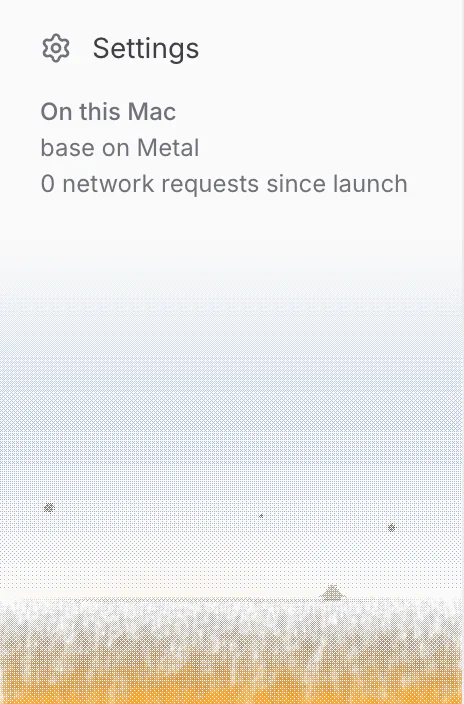
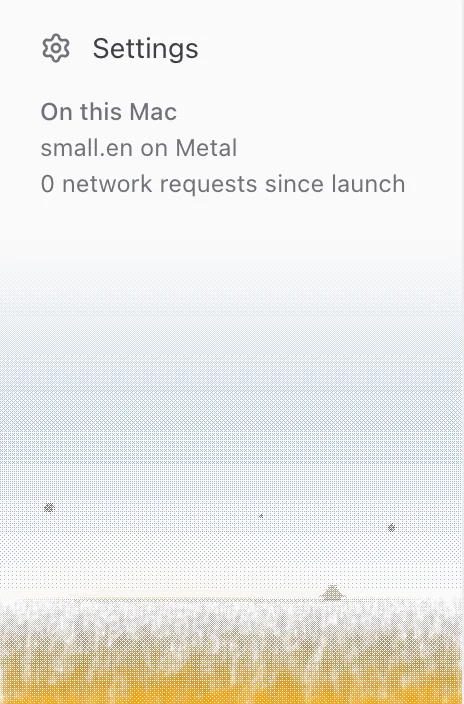
Release 0.2.0: version, release notes, and the site copy (#153)
* Site: each Mac's download size, and small.en's speed

For the release that ships small.en (#131), not before: the site serves the
latest release and deploys from main.

The Apple Silicon DMG grows to about 910 MB with small.en (954,969,563 bytes
in CI) and the Intel one stays about 610 MB, so the size follows the detected
arch like the label does. The measured-speed tile names the model Apple
Silicon uses for English: 147 ms for 5 s of audio (two runs of 15, median,
VAD on, M5 Pro).

* Version 0.2.0, and its release notes

* Site and README: version 0.2.0

* Release job: rebuild an unpublished draft in place

`gh release create` fails when a draft of the tag already exists, so 0.2.0
could not be rebuilt after Alex's review. A draft is now updated: target,
notes and files. A published release is never changed.

* Release 0.2.0 notes: setup, the tour, one model choice, automatic summaries, the field

The notes now cover Alex's 0.2 review: setup's "Where Oats thinks" step and
its downloads, the tour, Settings' single processing choice, summaries that
start by themselves, and the field drawn for each screen. A Known limits
line says that the model on this Mac summarizes up to about an hour. The
privacy section and the site and README copy now say what goes to a
provider with an API key (transcripts, and audio with an OpenAI key).

* Site: the sidebar foot as 0.2.0 shows it, and the notes for #156

The site's sidebar image said "base on Metal", 0.1.0's speech model. It is
[…]

diff --git a/site/index.html b/site/index.html
@@ -74,7 +74,7 @@
             </a>
           </div>
           <ul class="facts" aria-label="About this download">
-            <li>Version 0.1.0 for <span data-arch-label>Apple Silicon</span></li>
+            <li>Version 0.2.0 for <span data-arch-label>Apple Silicon</span></li>
             <li>macOS 12 or later</li>
             <li>Free and open source</li>
           </ul>
@@ -171,7 +171,7 @@
               A title, a summary and the threads the conversation followed. Talk time for each person, how each
               question ended, and the transcript with the speakers told apart.
             </p>
-            <p class="aside">Titles and summaries come from a writing model you choose: a local one, or your own API key.</p>
+            <p class="aside">Titles and summaries come from a writing model on your Mac, which Oats downloads at setup, or from your own API key.</p>
           </div>
           <figure class="window feature-visual">
             <img src="media/outcomes.webp" width="1504" height="1662" loading="lazy" decoding="async" alt="The list What this left open, 15 asked and 9 answered: questions marked Unknown, Unanswered, Open and Answered, with the answer under each answered one." />
@@ -227,8 +227,9 @@
           </div>
           <div class="privacy-copy">
             <p>
-              Audio and transcripts stay on your Mac. There is no Oats account and no Oats server. Summaries run on a
-              local model, or on your own API key if you add one.
+              There is no Oats account and no Oats server. On this Mac, audio and transcripts never leave it. With your
+              own API key, transcripts go to your provider for summaries, and with an OpenAI key the audio goes to
+              OpenAI for transcription.
             </p>
             <p>
               When a question meets a clear <q>I don't know</q>, Oats opens a web search for the question text in your
@@ -241,14 +242,14 @@
             </p>
           </div>
           <figure class="counter">
-            <img src="media/sidebar-foot.webp" width="464" height="704" loading="lazy" decoding="async" alt="The bottom of the Oats sidebar: Settings, then On this Mac, base on Metal and 0 network requests since launch, above a dithered sky and wheat field." />
+            <img src="media/sidebar-foot.webp" width="464" height="704" loading="lazy" decoding="async" alt="The bottom of the Oats sidebar: Settings, then On this Mac, small.en on Metal and 0 network requests since launch, above a dithered sky and wheat field." />
           </figure>
         </div>
       </section>
 
       <section class="numbers" aria-label="Measured">
         <div class="wrap numbers-grid">
-          <div><p class="number">89<span> ms</span></p><p>to transcribe 5 seconds of audio, with whisper base on an M5 Pro</p></div>
+          <div><p class="number">147<span> ms</span></p><p>to transcribe 5 seconds of audio, with whisper small.en on an M5 Pro</p></div>
           <div><p class="number">1.3<span> s</span></p><p>until the first words show in a live room, median, in a replay at real speed</p></div>
           <div><p class="number">10</p><p>languages in the interface</p></div>
           <div><p class="number">MIT</p><p>licence. The whole app is <a href="https://github.com/alexgaoth/oats">on GitHub</a></p></div>
@@ -283,8 +284,8 @@
             </a>
           </div>
           <ul class="facts" aria-label="About this download">
-            <li>Version 0.1.0 for <span data-arch-label>Apple Silicon</span></li>
-            <li>About 610 MB, models included</li>
+            <li>Version 0.2.0 for <span data-arch-label>Apple Silicon</span></li>
+            <li><span data-arch-size data-arm64="About 910 MB" data-x64="About 610 MB">About 910 MB</span>, models included</li>
             <li>macOS 12 or later</li>
           </ul>
           <p class="other-arch">

diff --git a/site/src/download.js b/site/src/download.js
@@ -57,6 +57,11 @@ export async function wireDownloads() {
   for (const label of document.querySelectorAll("[data-arch-label]")) {
     label.textContent = primary === "x64" ? "Intel" : "Apple Silicon";
   }
+  // The two builds bundle different speech models, so they differ in size:
+  // each element names both sizes and shows the one this button serves.
+  for (const size of document.querySelectorAll("[data-arch-size]")) {
+    size.textContent = primary === "x64" ? size.dataset.x64 : size.dataset.arm64;
+  }
   for (const other of document.querySelectorAll("[data-other-arch]")) {
     const which = primary === "x64" ? "arm64" : "x64";
     other.href = DMG[which];

diff --git a/site/assets/site.js b/site/assets/site.js
@@ -323,6 +323,7 @@ async function Y() {
 		e.href = K[n], e.dataset.download === "primary" && (e.dataset.arch = n);
 	}
 	for (let e of document.querySelectorAll("[data-arch-label]")) e.textContent = t === "x64" ? "Intel" : "Apple Silicon";
+	for (let e of document.querySelectorAll("[data-arch-size]")) e.textContent = t === "x64" ? e.dataset.x64 : e.dataset.arm64;
 	for (let e of document.querySelectorAll("[data-other-arch]")) {
 		let n = t === "x64" ? "arm64" : "x64";
 		e.href = K[n], e.textContent = n === "x64" ? "Intel Mac? Get the Intel build" : "On Apple Silicon? Get that build";

diff --git a/.github/release-notes/v0.2.0.md b/.github/release-notes/v0.2.0.md
@@ -1,0 +1,94 @@
+Oats hears the whole room now, names what the conversation was about, and links the conversations that come back to the same subject. Setup sets up the models for you, and summaries start by themselves.
+
+## Download
+
+- **Apple Silicon** (M1 and later): `Oats-arm64.dmg`, about 910 MB.
+- **Intel**: `Oats-x64.dmg`, about 610 MB. It is built for Intel, but nobody has tested it on an Intel Mac yet.
+
+Oats needs macOS 12 Monterey or later.
+
+## The first time you open it
+
+This version is not notarized by Apple yet, so macOS stops it once.
+
+1. Open the DMG and drag Oats to Applications.
+2. Open Oats. macOS says that it cannot verify the app. Click Done.
+3. Open System Settings, then Privacy & Security. Scroll down and click Open Anyway next to "Oats was blocked".
+4. Confirm with your password or Touch ID. macOS asks only once.
+
+## What is new
+
+**Setup asks where Oats thinks.** A new step offers two choices:
+
+- **On this Mac:** private and free. When you continue, Oats downloads the models that suit your Mac: Whisper Turbo (574 MB) for speech on a Mac that is fast enough, and a writing model for titles and summaries. The writing model is Gemma 4 E4B (5.4 GB) on a Mac with 16 GB of memory or more, and Qwen3.5 4B (2.7 GB) on a Mac with less. Gemma 4 E4B made up the fewest facts in our summary tests. Each download shows its progress, with Cancel.
+- **With an API key:** paste an OpenAI or Anthropic key. Oats asks the provider whether the key works before it saves it.
+
+**A short tour.** After setup, five slides show what Oats does with a conversation. Each slide is a part of the app itself, shown with the example conversation. Skip it, or go through it with Next or the arrow keys.
+
+**One way to choose models.** Settings › AI models has one choice: On this Mac, or With an API key. Under it, one row for speech and one for writing say which model Oats uses, why, and whether it is ready. To choose models yourself, open Advanced: speech and writing use the same list there.
+
+**Upgrading.** On this Mac with no writing model yet, the first launch of 0.2.0 starts its download, with a notice and Cancel. A model you chose yourself is kept.
+
+**Summaries start by themselves.**
+
+- **After a download:** a conversation that finished while the writing model was still downloading is summarized when the model is ready.
+- **After a key:** with an API key chosen but none saved yet, conversations wait, and they are summarized when you add one.
+- **When you open one:** a conversation that has no summary starts one when you open it. There is no Summarize button.
+- **After a failure:** a summary that fails quickly is tried once more. If it fails again, the conversation says why and offers Summarize again. A failed summary is never saved: before, the transcript could be saved in its place.
+
+**The field, redrawn.** The field backdrop is drawn for each screen now. The sky, a low sun (a moon in dark mode) and the wheat stand around the content, never behind the words. The white disc behind the content and the sideways scrollbar are gone. The switch is in Settings › General › Advanced.
+
+**Every voice in the room.** We replayed public meetings recorded by one microphone on the table through the app:
+
+- **Far voices.** Oats now hears a voice across the table. In a room with steady background sound, it sends 85% of the speech to transcription, against 23% before.
+- **Quiet microphones.** A quiet microphone gets its segments raised before transcription.
+- **Loud rooms.** In a room that stays loud, the steady sound is taken out first.
+- **Sound labels.** Lines that are only a sound label, such as "[inaudible]", are left out of the transcript.
+
+**A better speech model for your Mac.**
+
+- **Apple Silicon:** Oats uses Whisper `small.en` for English.
+- **Fast Macs:** Oats times the GPU once. On a Mac that is fast enough, it downloads Whisper Turbo (574 MB) and switches to it when the download is ready. The download never starts while you record.
+- **Your choice wins:** a model you chose yourself is never changed.
+
+**English by default.** The setup screen has a Language row, and Settings changes it at any time.
+
+**Topics that say what they are about.**
+
+- **On your Mac:** a topic is named with a phrase someone said, not with two frequent words.
+- **With a writing model:** the writing model gives each topic a short name.
+- **Live with OpenAI or Claude:** if your writing model is OpenAI's or Anthropic's, a fast model checks each change of subject while you talk. A new topic then shows after about a minute, not four.
+
+**Summaries you can trust.**
+
+- **Defaults:** with an OpenAI key the writing model is gpt-6.1-sol, and with only an Anthropic key it is Claude Opus 5.5. These were the most accurate in our tests.
+- **Claude:** Claude models work again as the writing model.
+- **No made-up attributions:** the summary no longer guesses who said what when the transcript has no speaker labels.
+
+**Conversations that link by meaning.** The board links conversations by what their topics mean, not by shared words, so unrelated conversations no longer link on words like "meeting".
+
+**Fixed.** GPT-OSS 20B downloads again from Settings.
+
+## Known limits
+
+- **Long conversations on this Mac.** The writing model on this Mac summarizes a conversation of up to about an hour. A longer conversation says that it is too long for the model on this Mac. With an API key, it is summarized.
+
+## Privacy
+
+There is no Oats account and no Oats server.
+
+**On this Mac,** audio and transcripts stay on your Mac. The models download from Hugging Face.
+
+**With an API key,** these requests go to your provider, with your key:
+
+- **Audio,** for transcription, if you have an OpenAI key.
+- **Transcripts,** for titles and summaries. Opening a conversation that has no summary also sends its transcript.
+- **The live topic check:** at most 3,000 characters of the conversation around each change of subject. It runs only with OpenAI or Anthropic.
+- **The link check:** topic names and short gists, never transcripts. It sends only conversations whose summary that same provider already wrote.
+- **The key check:** when you save a key, Oats asks the provider whether the key works.
+
+The sidebar counts every network request since launch, and the model downloads are counted too. You can turn the web search for an unanswered question off in Settings.
+
+Tell people before you record. Some places, for example California, need everyone's consent.
+
+The SHA-256 checksums are in `SHA256SUMS.txt`.

diff --git a/README.md b/README.md
@@ -18,7 +18,7 @@
 </p>
 
 <p align="center">
-  <sub>Version 0.1.0 for Apple Silicon, macOS 12 or later. Also as an <a href="https://github.com/alexgaoth/oats/releases/latest/download/Oats-x64.dmg">Intel build</a>, not yet tested on an Intel Mac.</sub><br>
+  <sub>Version 0.2.0 for Apple Silicon, macOS 12 or later. Also as an <a href="https://github.com/alexgaoth/oats/releases/latest/download/Oats-x64.dmg">Intel build</a>, not yet tested on an Intel Mac.</sub><br>
   <sub><a href="https://oats-mac.vercel.app">Website</a> · <a href="https://github.com/alexgaoth/oats/releases/latest">Release notes</a></sub>
 </p>
 
@@ -65,7 +65,7 @@ Optional, and off by default: when the folder has no answer, Oats can ask Claude
 
 ### The conversation, given back in order
 
-Stop, and the conversation comes back with a title, a summary and the threads it followed, talk time for each person, how each question ended, and the transcript with the speakers told apart. Titles and summaries come from a writing model you choose: a local one, or your own API key. The transcript, the speakers, the questions and the shape of the conversation need neither.
+Stop, and the conversation comes back with a title, a summary and the threads it followed, talk time for each person, how each question ended, and the transcript with the speakers told apart. Titles and summaries come from a writing model on your Mac, which Oats downloads at setup, or from your own API key. The transcript, the speakers, the questions and the shape of the conversation need neither.
 
 <p align="center">
   <img src="site/media/outcomes.webp" width="560" alt="The list What this left open, 15 asked and 9 answered: questions marked Unknown, Unanswered, Open and Answered, with the answer under each answered one.">
@@ -89,9 +89,9 @@ The board lays out every conversation as a graph and as a timeline, so a subject
 
 ## Privacy you can check
 
-<img align="right" src="site/media/sidebar-foot.webp" width="190" alt="The bottom of the Oats sidebar: Settings, then On this Mac, base on Metal and 0 network requests since launch, above a dithered sky and wheat field.">
+<img align="right" src="site/media/sidebar-foot.webp" width="190" alt="The bottom of the Oats sidebar: Settings, then On this Mac, small.en on Metal and 0 network requests since launch, above a dithered sky and wheat field.">
 
-Audio and transcripts stay on your Mac. Transcription runs on whisper.cpp with Metal. There is no Oats account and no Oats server. Summaries run on a local model, or on your own API key if you add one.
+On this Mac, audio and transcripts never leave it: transcription runs on whisper.cpp with Metal, and summaries on a local model. There is no Oats account and no Oats server. With your own API key, transcripts go to your provider for summaries, and with an OpenAI key the audio goes to OpenAI for transcription.
 
 One thing is on by default, and you can turn it off in Settings: when a question meets a clear "I don't know", Oats opens a web search for the question text in your browser.
 
